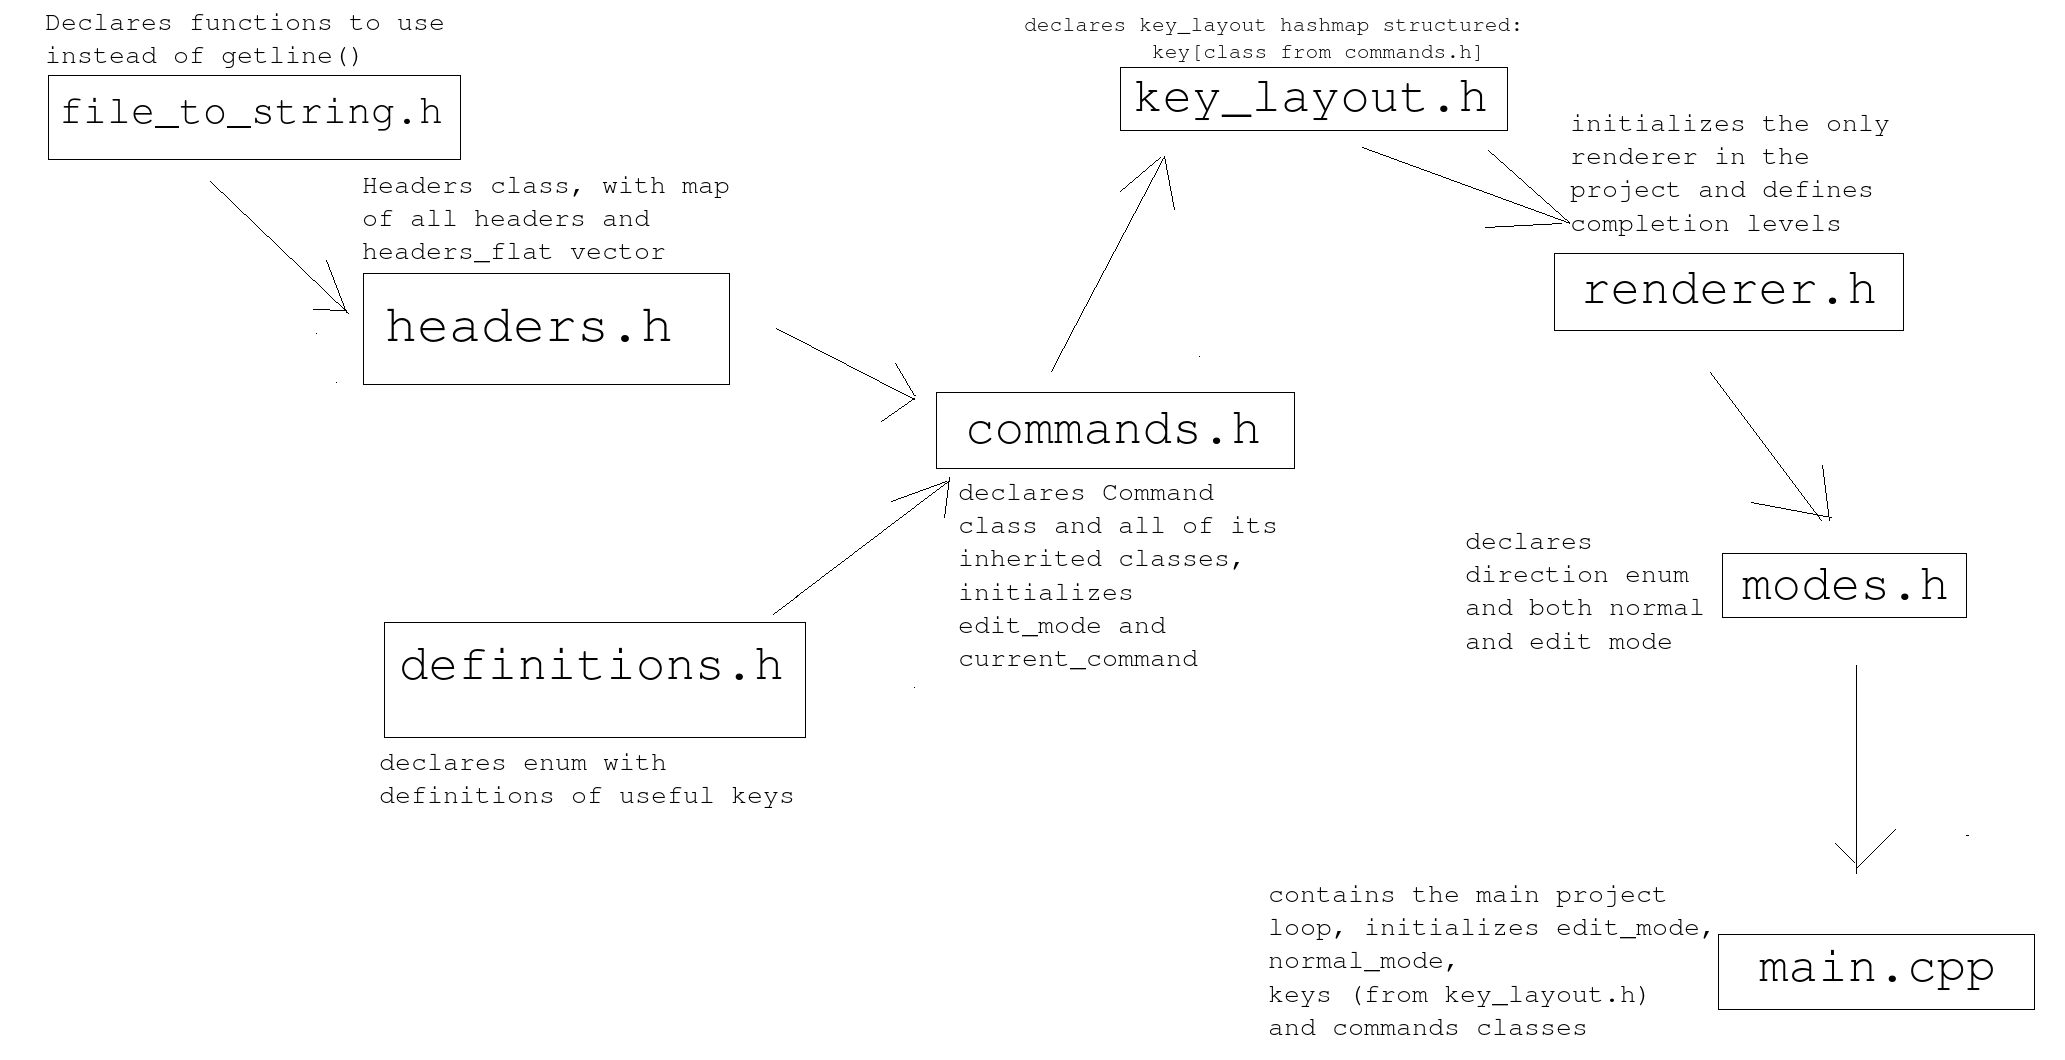
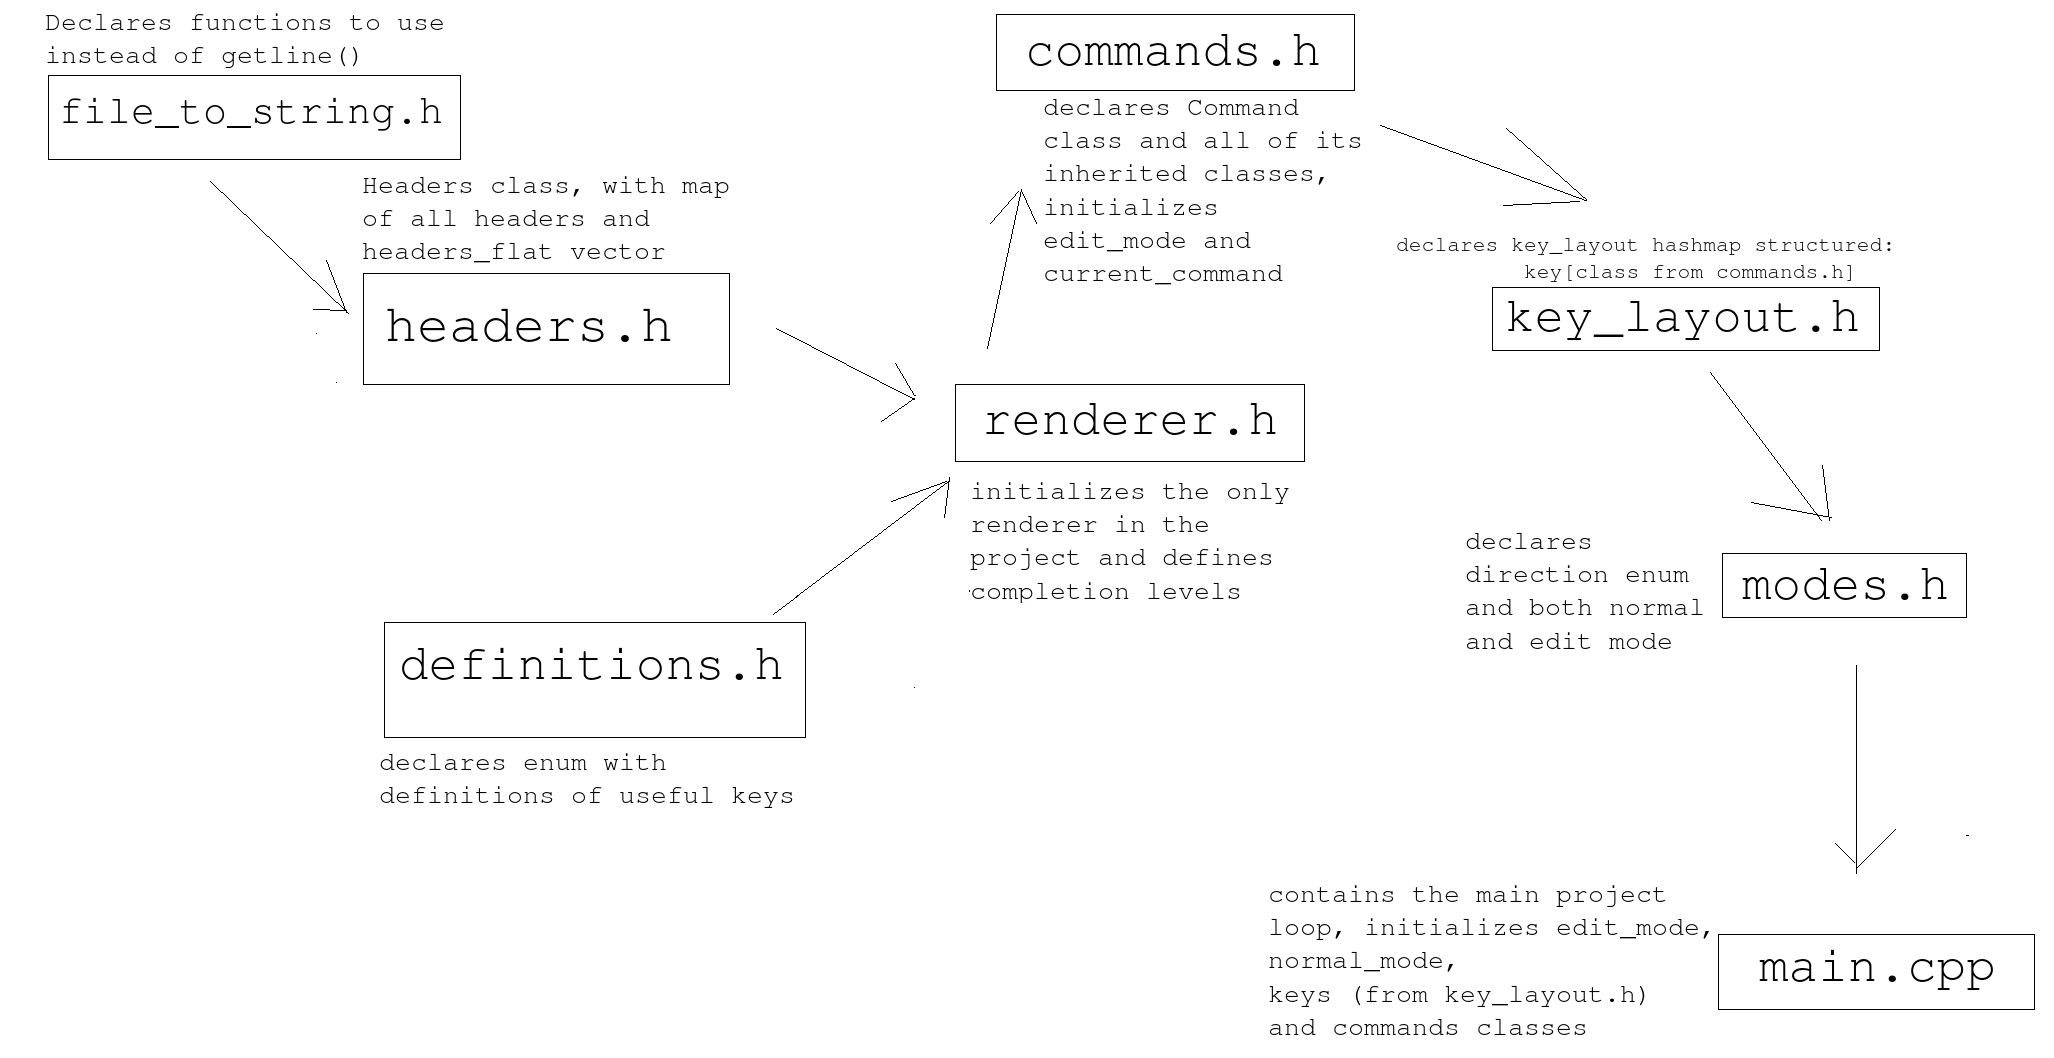
refactor

diff --git a/src/commands.h b/src/commands.h
@@ -7,8 +7,7 @@
 #include <vector>
 #include <regex>
 #include <tuple>
-#include "headers.h"
-#include "definitions.h"
+#include "renderer.h"
 
 class Command {
 	protected: std::string format_header_name(const std::string &header_name) {
@@ -71,112 +70,51 @@ class Command {
 				move(y, x - 1);
 			}
 
-	public: void print_line(std::string str, bool move_to_previous_position) {
-				int y, x;
-				getyx(stdscr, y, x);
-				move(y, x - 1);
-				clrtoeol();
-				refresh();
-				move(y, 0);
-				printw(str.c_str());
-				refresh();
+	protected: std::string get_header_name() {
+			std::string header_name;
 
-				if (move_to_previous_position) move(y, x + 1);
-			 }
-	public: std::string get_command() {
-			std::string command;
+			curs_set(1);
 
-			char ch;
-
-			int current_x, current_y;
-			getyx(stdscr, current_y, current_x);
+			int x, y;
+			getyx(stdscr, y, x);
 			
 			int max_x, max_y;
 			getmaxyx(stdscr, max_y, max_x);
+			max_x = 0;
 
-			move(max_y - 1, 0);
+			move(max_y - 1, max_x);
 
-			ch = getch();
-			clrtoeol();
-	
-			if (ch == ENTER_KEY) {
-				move(current_y + 1, 0);
-				refresh();
+			char key_pressed;
+			while (key_pressed != ENTER_KEY) {
+				key_pressed = getch();
 
-				return "Invalid command!"; 
-			}
-			
-			addch(ch);
-			command += ch;
-
-			while (ch != ENTER_KEY) {
-				ch = getch();
-				
-				if (ch == ENTER_KEY) {
-					move(current_y + 1, 0);
-					return command;
-				}
-				
-				command += ch;
-
-				addch(ch);
-				refresh();
-			}
-			
-			return "";
-		}
-
-
-	protected: std::string get_header_name() {
-			std::string header_name;
-			
-			int x, y;
-			getyx(stdscr, y, x);
-
-			int max_y, max_x;
-			getmaxyx(stdscr, max_y, max_x);
-			move(max_y - 1, 0);
-			clrtoeol();
-
-			char ch;
-			ch = getch();
-			
-			if (ch == ENTER_KEY) return ""; // If the header_name is just 
-											// new line we just exit
-			if (int(ch) != BACKSPACE_KEY) header_name = ch;
-			
-			print_line(header_name, false);
-
-			while (ch != ENTER_KEY) {
-				char ch = getch();
-				bool move_to_previous_position = false;
-				
-				switch(ch) {
+				switch (key_pressed) {
 					case ENTER_KEY:
+						curs_set(0);
 						return header_name;
-					case BACKSPACE_KEY: 
+					case BACKSPACE_KEY:
+						if (header_name.empty()) break;
 						delete_character(header_name);
-						print_line(header_name, false);
-						break;	
+						max_x--;
+						break;
 					case ARROW_LEFT:
-						getyx(stdscr, y, x);
-		
-						move(y, x - 1);
+						if (max_x == 0) break;
+						max_x--;
 						break;
 					case ARROW_RIGHT:
-						getyx(stdscr, y, x);
-	
-						if (x >= header_name.length()) continue;
-	
-						move(y, x + 1);
+						if (max_x >= header_name.length()) break;
+						max_x++;
 						break;
+					default:
+						header_name += key_pressed;
+						max_x++;
+						
 				}
 
-				add_character_to_header(header_name, ch, move_to_previous_position);
-				print_line(header_name, move_to_previous_position);
+				move(max_y - 1, 0);
+				renderer.render_headers(headers.get_headers_flat(), header_name);
+				move(max_y - 1, max_x);
 			}
-
-			return ""; // Done just for LSP purposes
 		 }
 
 	public: ~Command() {}
@@ -200,29 +138,6 @@ class Command {
 	public: virtual void initialize_command() {
 			return; // Method for overriding.
 		}
-
-	private: std::vector<std::pair<std::string, std::string>> 
-			 get_config_definitions() {
-			std::ifstream config_data("../data/config");	
-
-			// Given a file structured;
-			// key: definition
-			// this regex will mach the 
-			// key and the definition
-			std::regex config_key_regex("^([^:]+):(.*)$");
-			
-			std::vector<std::pair<std::string, std::string>> definitions;
-			while (!config_data.eof()) {
-				std::string config_data_line;
-				config_data >> config_data_line;
-				
-				std::smatch matched_key;
-				std::regex_match(config_data_line, matched_key, config_key_regex);
-				definitions.push_back({matched_key[0], matched_key[1]});
-			}
-			
-			return definitions;
-		 }
 };
 
 bool Command::edit_mode = false;
@@ -314,6 +229,7 @@ class AddNewHeaderCommand : public Command {
 				Header current_header = headers.get_header_flat(y);
 
 				std::string new_header_name = get_header_name();
+				if (new_header_name.empty()) return;
 			
 				HeaderBuilder new_header_builder;
 				Header new_header = new_header_builder
@@ -346,6 +262,8 @@ class AddNewHeaderCommand : public Command {
 				Header header_above = headers.get_header_flat(y);
 				
 				std::string name = get_header_name(); 
+				if (name.empty()) return;
+
 				std::string path_to_parent = header_above.get_path_to_header();
 				std::string path_to_self = create_path_to_self(name, path_to_parent);	
 				header_above.insert_path_to_child(path_to_self);
@@ -375,6 +293,7 @@ class AddNewHeaderCommand : public Command {
 				getyx(stdscr, y, x);
 				
 				std::string new_header_name = get_header_name();
+				if (new_header_name.empty()) return;
 
 				Header current_header = headers.get_header_flat(y);
 				

diff --git a/src/key_layout.h b/src/key_layout.h
@@ -1,10 +1,14 @@
 #include "commands.h"
 #include <fstream>
+#include <map>
+#include <string>
+#include <utility>
+#include <vector>
 
 class KeyLayout {
 	public: std::map<std::string, Command*> key_layout; 
 
-	public: void execute_command(std::string command) {
+	public: void execute_command(const std::string &command) {
 			if (!(key_layout.count(command) > 0)) {
 				int current_y, current_x;
 				getyx(stdscr, current_y, current_x);
@@ -23,15 +27,46 @@ class KeyLayout {
 			key_layout[command]->initialize_command();	
 		}
 
-	public: KeyLayout() {
-			// TODO - user defined config
+	private: std::vector<std::pair<std::string, std::string>>
+			 get_config_definitions() {
+			std::ifstream config_data("~/.config/C-TODO/config");	
+
+			// Given a file structured;
+			// key: definition
+			// this regex will mach the
+			// key and the definition
+			std::regex config_key_regex("^([^:]+):(.*)$");
 			
+			std::vector<std::pair<std::string, std::string>> definitions;
+			while (!config_data.eof()) {
+				std::string config_data_line;
+				config_data >> config_data_line;
+				
+				std::smatch matched_key;
+				std::regex_match(config_data_line, matched_key, config_key_regex);
+				definitions.push_back({matched_key[0], matched_key[1]});
+			}
+			
+			return definitions;
+		 }
+
+	private: void override_key_layout(const std::vector<std::pair<std::string, std::string>> &config,
+				std::map<std::string, Command*> &key_layout) {
+					
+				for (auto &[definition, key] : config) {
+
+				}
+			 }
+
+	public: KeyLayout() {
 			key_layout["a"] = new AddNewHeaderCommand();
 			key_layout["d"] = new DeleteHeaderCommand();
 			key_layout["c"] = new ChangeCompletionLevelCommand();
 			key_layout["e"] = new ExitCommand();
-		}	
 
+			// std::vector<std::pair<std::string, std::string>> config = get_config_definitions();
+		}	
+	
 	public: ~KeyLayout() {
 				for (auto &[key, command] : key_layout) {
 					delete command;

diff --git a/src/renderer.h b/src/renderer.h
@@ -7,7 +7,8 @@
 #include <vector>
 #include <fstream>
 #include <algorithm>
-#include "key_layout.h"
+#include "headers.h"
+#include "definitions.h"
 
 class CompletionLevels {
 	private: static std::unordered_map<int, std::string> completion_levels;

diff --git a/src/modes.h b/src/modes.h
@@ -1,4 +1,4 @@
-#include "renderer.h"
+#include "key_layout.h"
 #include <fstream>
 #include <ncurses.h>
 #include <string>
